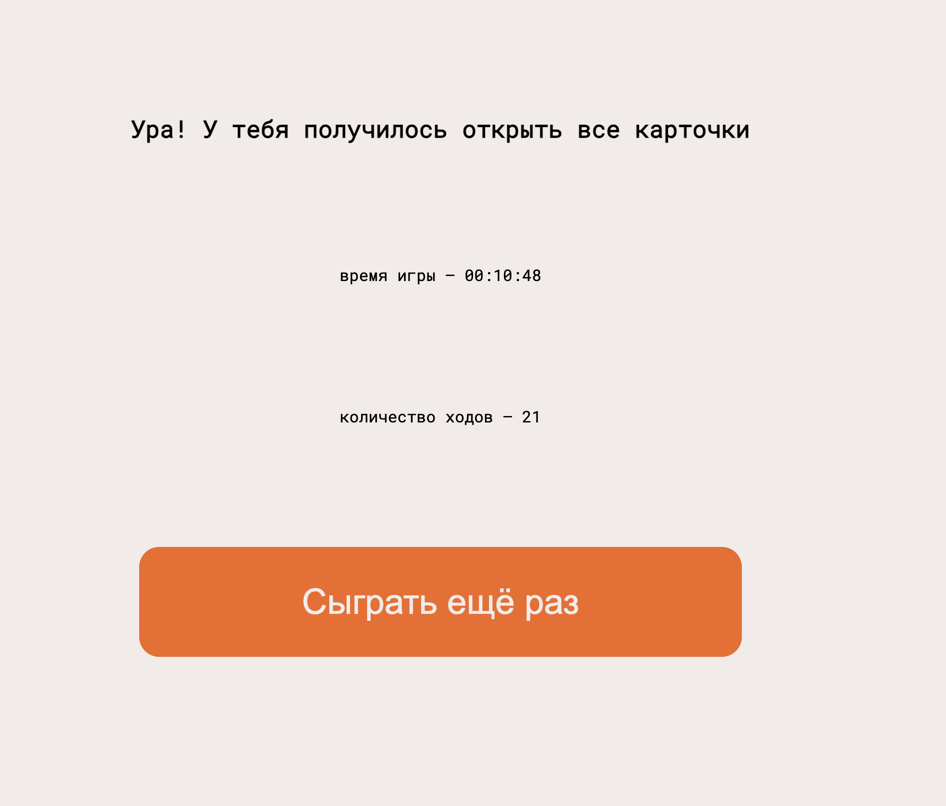
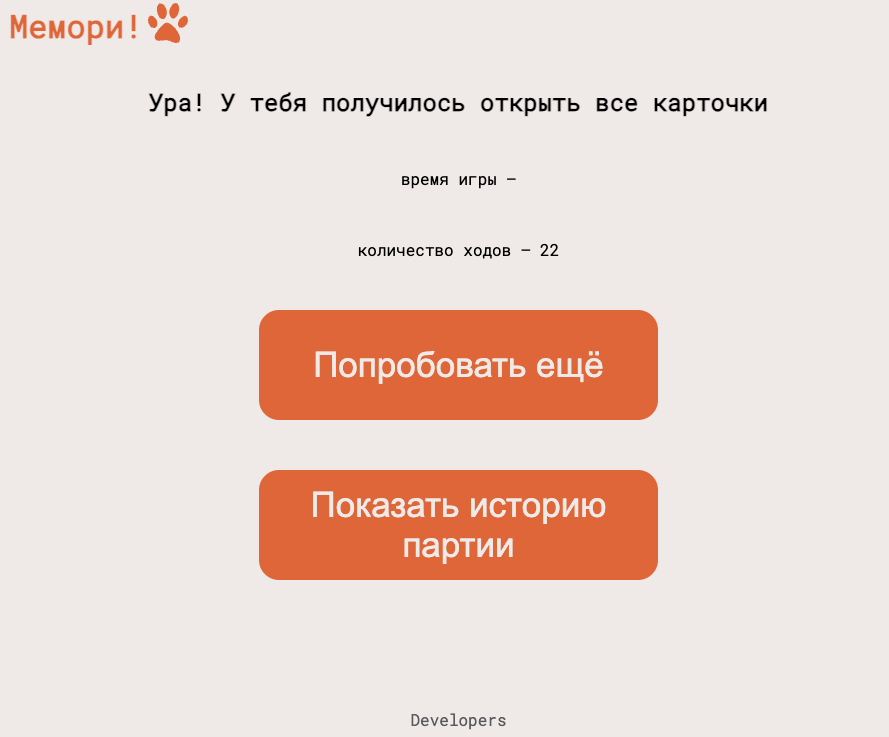
fix

diff --git a/README.md b/README.md
@@ -1,7 +1,9 @@
 # Мемори!
+
 [Открыть приложение](https://govyazina.github.io/junior-hackathon_team__14/)
 
 ### Команда
+
 Приложение сделано в рамках благотворительного хакатона командой 14.
 В создании участвовали:
 
@@ -13,10 +15,12 @@
 
 [Света](https://t.me/govyazina)
 
-### Стек проекта 
+### Стек проекта
+
 React.js, HTML, CSS, JS
 
 ### Дизайн
+
 [Фигма](https://www.figma.com/file/jC9yujlWYVSnhCKWdEquQ0/Memory!?type=design&node-id=404%3A574&mode=design&t=fEVohREMC9w7yoCu-1)
 
 ### Описание
@@ -24,9 +28,10 @@ React.js, HTML, CSS, JS
 **Мемори!** — игра с карточками, которые открываются попарно, и задача - открыть все карточки за наименьшее количество ходов.
 
 ### Фичи
-####  1. начальный экран с кратким описанием механики игры
-![img.png](img.png)
 
+#### 1. начальный экран с кратким описанием механики игры
+
+![img.png](img.png)
 
 #### 2. экран с игровым полем
 
@@ -38,19 +43,21 @@ React.js, HTML, CSS, JS
 таймер;
 ![img_1.png](img_1.png)
 
-
 #### 3. экран поздравления с окончанием игры
+
 ![img_2.png](img_2.png)
 
-   
+#### 4. Включение режима просмотра истории
+
+![img_2.png](img_2.png)
+
 ### Для локального запуска проекта:
 
 `npm i`
 
 `npx vite`
 
-### Деплой 
+### Деплой
+
 происходит автоматически после каждого пуша в `main`
 ссылка [здесь](https://govyazina.github.io/junior-hackathon_team__14/)
-
-
